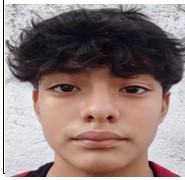
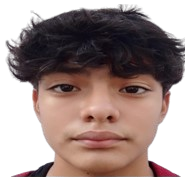
Mas marcos y me dio floera hacer mas xddd

Changed region(s): [[0.0, 0.0, 1.0, 1.0]]

diff --git a/css/style.css b/css/style.css
@@ -492,7 +492,27 @@ button {
 
 .about_img {
      padding: 40px 30px 45px 30px;
-}
+     background-color: #f0f0f0; /* Fondo claro para que se resalte */
+     border-radius: 8px; /* Bordes redondeados */
+     box-shadow: 0 4px 8px rgba(0, 0, 0, 0.1); /* Sombra suave alrededor */
+     transition: all 0.3s ease-in-out; /* Transición suave para efectos de hover */
+     text-align: center; /* Alineación de contenido */
+ }
+ 
+ /* Efecto al pasar el mouse */
+ .about_img:hover {
+     background-color: #e0e0e0; /* Fondo un poco más oscuro al hacer hover */
+     transform: translateY(-5px); /* Sube ligeramente la imagen */
+     box-shadow: 0 6px 12px rgba(0, 0, 0, 0.2); /* Sombra más intensa al hacer hover */
+ }
+ 
+ /* Si la imagen es dentro de la clase .about_img */
+ .about_img img {
+     max-width: 100%; /* Para asegurarse de que la imagen no se salga de su contenedor */
+     height: auto; /* Mantiene la proporción de la imagen */
+     border-radius: 4px; /* Bordes redondeados en la imagen */
+ }
+ 
 
 .about_img::before {
      position: absolute;
@@ -1081,7 +1101,7 @@ button {
      overflow: hidden; /* Evita que el contenido sobresalga */
      border-radius: 15px; /* Bordes redondeados */
      box-shadow: 0 8px 20px rgba(0, 0, 0, 0.1); /* Sombra suave para dar profundidad */
-     background: linear-gradient(135deg, #6a11cb, #2575fc); /* Fondo degradado moderno */
+     background: linear-gradient(135deg, #2da0a6, #f4943f); /* Fondo degradado moderno */
      display: flex; /* Usa Flexbox para centrar el contenido */
      justify-content: center; /* Centra horizontalmente */
      align-items: center; /* Centra verticalmente */
